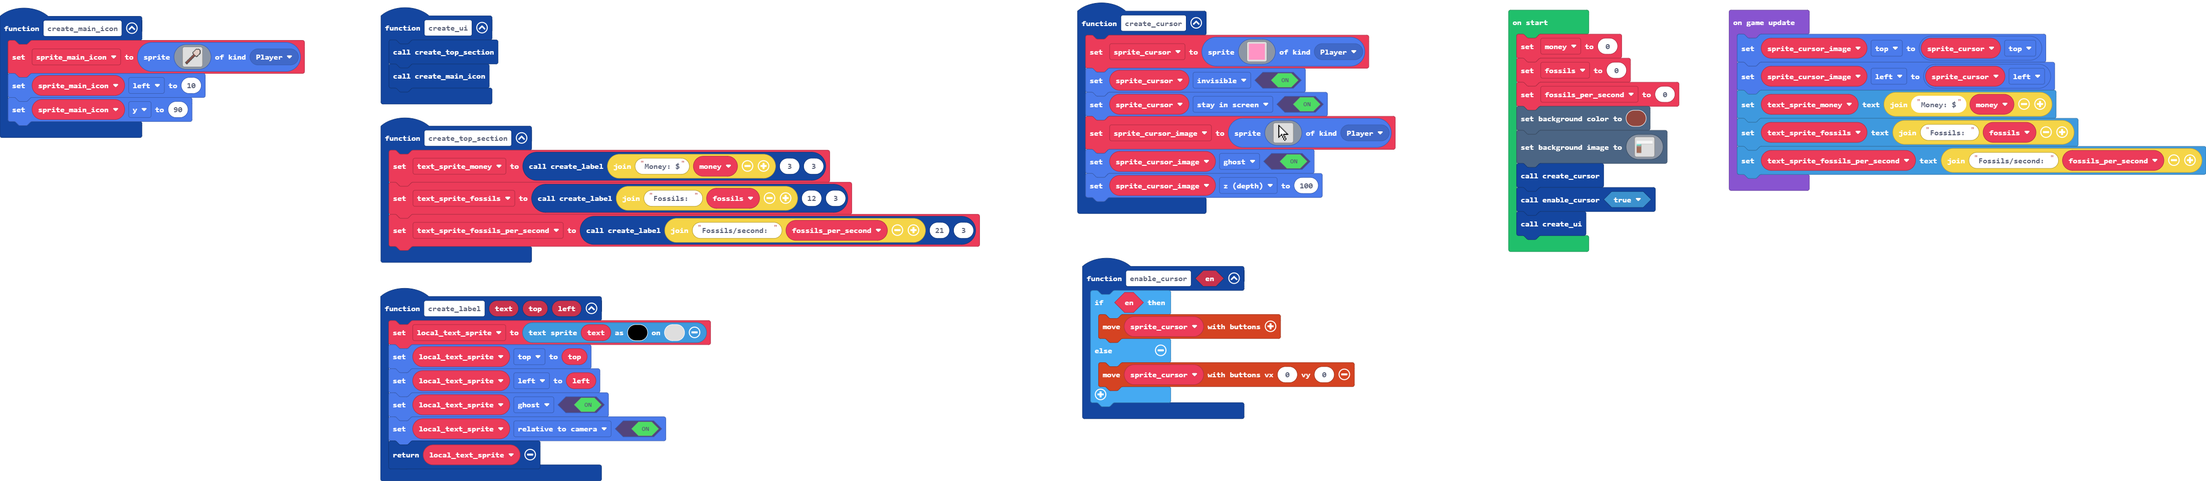
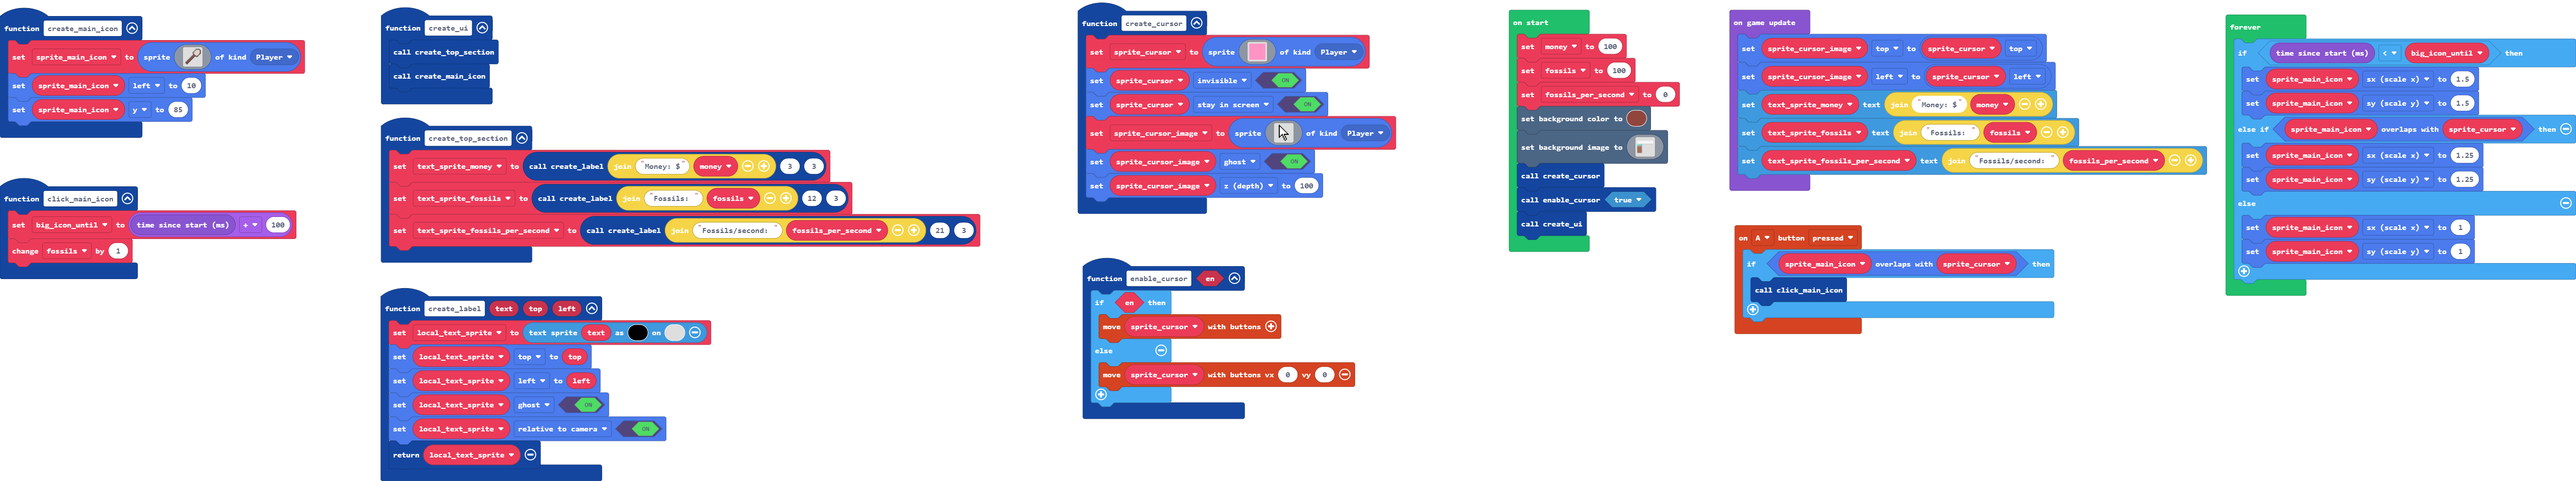
Click for fossils

diff --git a/main.ts b/main.ts
@@ -15,10 +15,15 @@ function create_label (text: string, top: number, left: number) {
     local_text_sprite.setFlag(SpriteFlag.RelativeToCamera, true)
     return local_text_sprite
 }
+controller.A.onEvent(ControllerButtonEvent.Pressed, function () {
+    if (sprite_main_icon.overlapsWith(sprite_cursor)) {
+        click_main_icon()
+    }
+})
 function create_main_icon () {
     sprite_main_icon = sprites.create(assets.image`shovel`, SpriteKind.Player)
     sprite_main_icon.left = 10
-    sprite_main_icon.y = 90
+    sprite_main_icon.y = 85
 }
 function create_cursor () {
     sprite_cursor = sprites.create(assets.image`cursor_pixel`, SpriteKind.Player)
@@ -28,6 +33,10 @@ function create_cursor () {
     sprite_cursor_image.setFlag(SpriteFlag.Ghost, true)
     sprite_cursor_image.z = 100
 }
+function click_main_icon () {
+    big_icon_until = game.runtime() + 100
+    fossils += 1
+}
 function enable_cursor (en: boolean) {
     if (en) {
         controller.moveSprite(sprite_cursor)
@@ -35,6 +44,7 @@ function enable_cursor (en: boolean) {
         controller.moveSprite(sprite_cursor, 0, 0)
     }
 }
+let big_icon_until = 0
 let sprite_cursor_image: Sprite = null
 let sprite_cursor: Sprite = null
 let sprite_main_icon: Sprite = null
@@ -45,8 +55,8 @@ let text_sprite_money: TextSprite = null
 let fossils_per_second = 0
 let fossils = 0
 let money = 0
-money = 0
-fossils = 0
+money = 100
+fossils = 100
 fossils_per_second = 0
 scene.setBackgroundColor(14)
 scene.setBackgroundImage(assets.image`background`)
@@ -59,4 +69,16 @@ game.onUpdate(function () {
     text_sprite_money.setText("Money: $" + money)
     text_sprite_fossils.setText("Fossils: " + fossils)
     text_sprite_fossils_per_second.setText("Fossils/second: " + fossils_per_second)
+})
+forever(function () {
+    if (game.runtime() < big_icon_until) {
+        sprite_main_icon.sx = 1.5
+        sprite_main_icon.sy = 1.5
+    } else if (sprite_main_icon.overlapsWith(sprite_cursor)) {
+        sprite_main_icon.sx = 1.25
+        sprite_main_icon.sy = 1.25
+    } else {
+        sprite_main_icon.sx = 1
+        sprite_main_icon.sy = 1
+    }
 })
